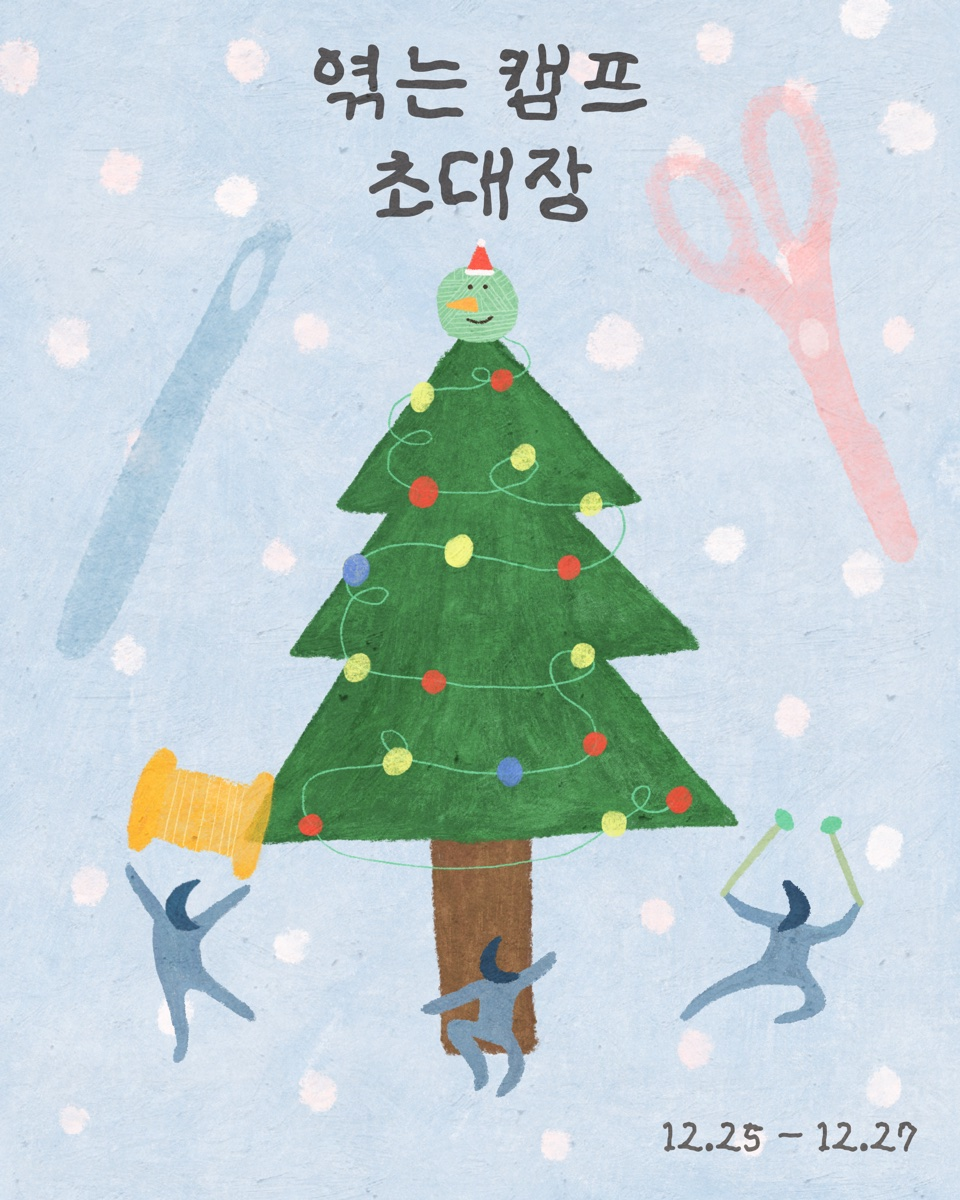
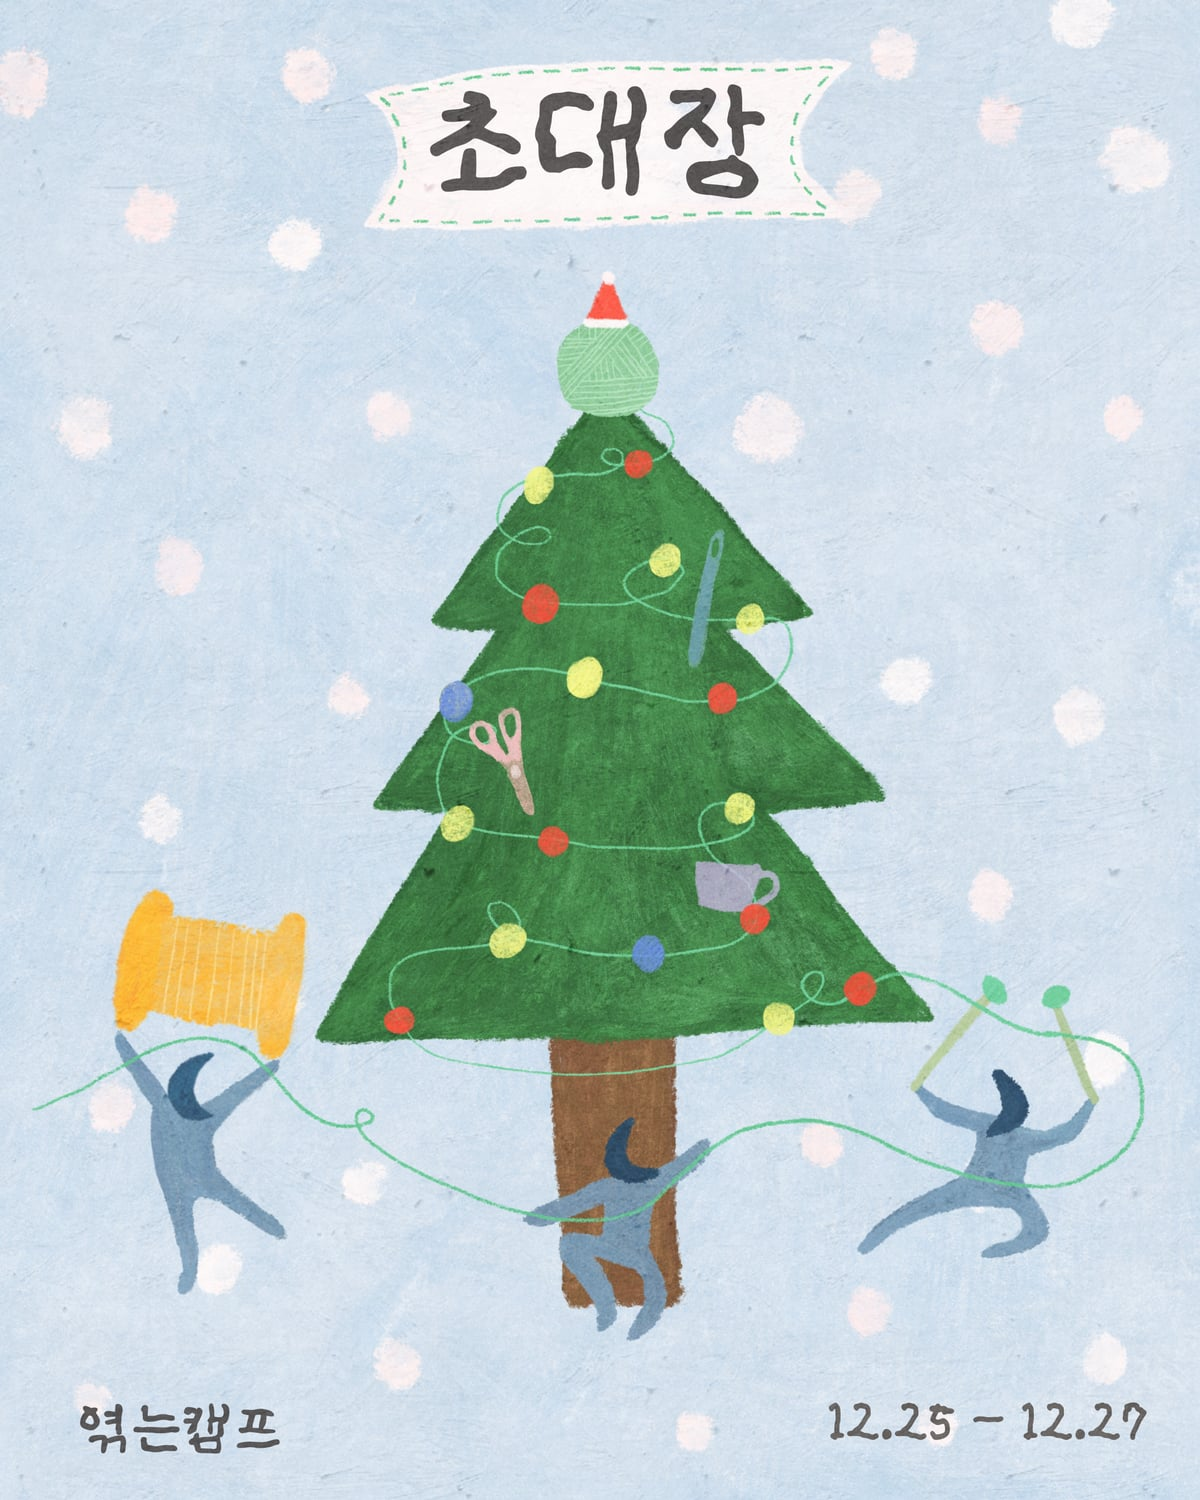
perf: ship poster as mobile-sized WebP with JPEG fallback
Poster was a 10MB 2160×2700 PNG while rendered at only 180×224 CSS px.
Serve a 720px WebP (~58KB) via <picture>, fall back to a 1200px JPEG
(~203KB) which also powers the OG/Twitter preview. Add fetchPriority
and decoding hints since the poster is above-the-fold on both screens.

diff --git a/src/components/EnvelopeIntro.tsx b/src/components/EnvelopeIntro.tsx
@@ -92,18 +92,25 @@ export default function EnvelopeIntro({ onOpen }: Props) {
             />
           </svg>
 
-          <img
-            src="/poster.jpg"
-            alt="엮는 캠프 포스터"
-            className="absolute bg-white object-cover shadow-md pointer-events-none"
-            style={{
-              width: POSTER_W,
-              height: POSTER_H,
-              left: posterLocalLeft,
-              top: posterLocalTop,
-            }}
-            draggable={false}
-          />
+          <picture>
+            <source srcSet="/poster.webp" type="image/webp" />
+            <img
+              src="/poster.jpg"
+              alt="엮는 캠프 포스터"
+              width={POSTER_W}
+              height={POSTER_H}
+              fetchPriority="high"
+              decoding="async"
+              className="absolute bg-white object-cover shadow-md pointer-events-none"
+              style={{
+                width: POSTER_W,
+                height: POSTER_H,
+                left: posterLocalLeft,
+                top: posterLocalTop,
+              }}
+              draggable={false}
+            />
+          </picture>
 
           <svg
             className="absolute pointer-events-none"

diff --git a/src/components/Poster.tsx b/src/components/Poster.tsx
@@ -23,18 +23,25 @@ export default function Poster() {
 
   return (
     <>
-      <img
-        src="/poster.jpg"
-        alt="엮는 캠프 포스터"
-        className="absolute bg-white object-cover shadow-lg"
-        style={{
-          width: POSTER_W,
-          height: POSTER_H,
-          left: cx - POSTER_W / 2,
-          top: cy - POSTER_H / 2,
-        }}
-        draggable={false}
-      />
+      <picture>
+        <source srcSet="/poster.webp" type="image/webp" />
+        <img
+          src="/poster.jpg"
+          alt="엮는 캠프 포스터"
+          width={POSTER_W}
+          height={POSTER_H}
+          fetchPriority="high"
+          decoding="async"
+          className="absolute bg-white object-cover shadow-lg"
+          style={{
+            width: POSTER_W,
+            height: POSTER_H,
+            left: cx - POSTER_W / 2,
+            top: cy - POSTER_H / 2,
+          }}
+          draggable={false}
+        />
+      </picture>
 
       <a
         href={googleFormUrl || '#'}
